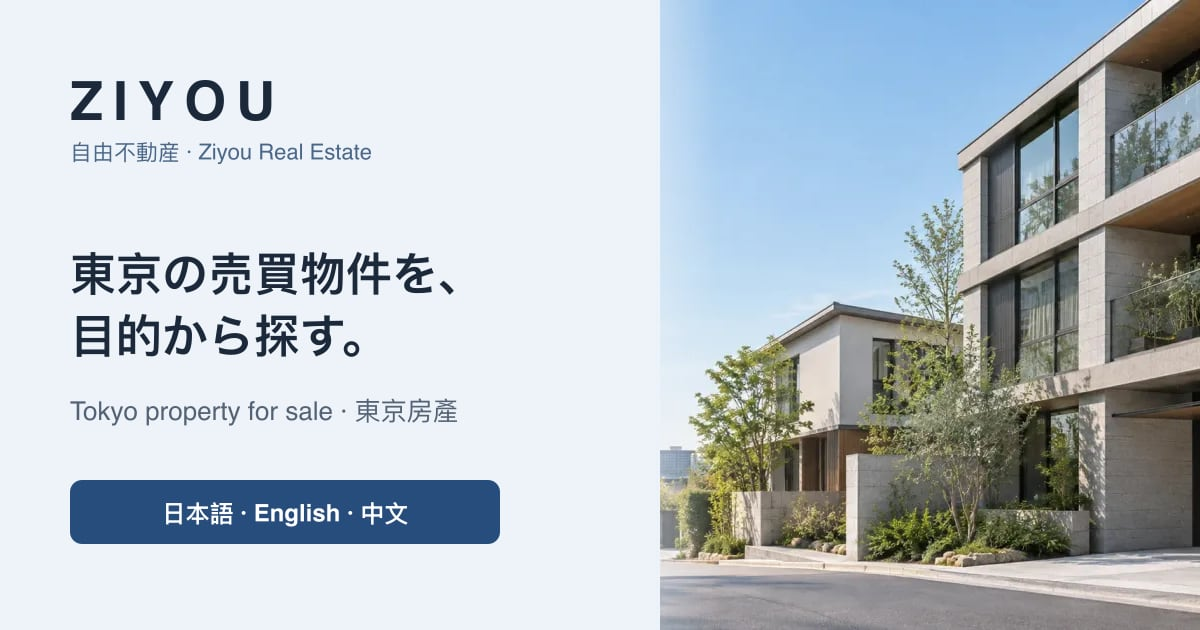
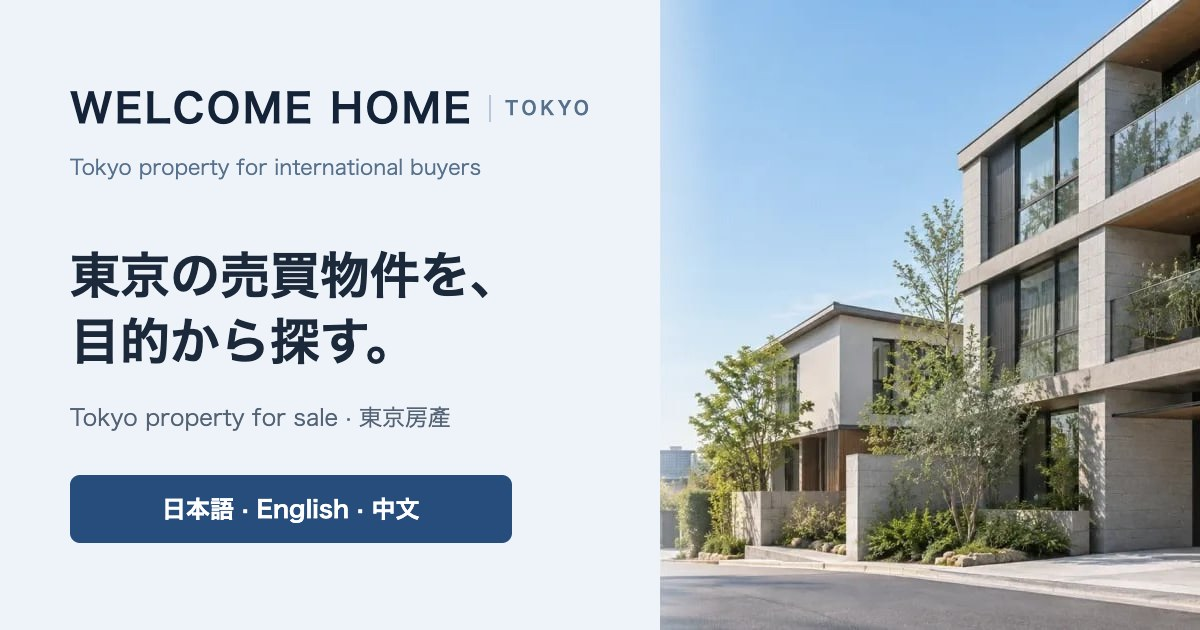
feat: rename the site to Welcome Home Tokyo
The public site name, logo, titles, Open Graph site name, share image,
article authors, llms.txt and notification subjects use Welcome Home
Tokyo. The licensed operator, Ziyou Real Estate LLC (自由不動産合同会社),
stays in the footer with its licence number and in structured data as
the RealEstateAgent and website publisher.

diff --git a/src/lib/login-methods-copy.ts b/src/lib/login-methods-copy.ts
@@ -1,8 +1,8 @@
 const copies = {
-  ja: { with: 'で続ける', or: 'または', emailLink: 'メールのリンクで登録・ログイン', emailNote: 'パスワードを使わず、メールに届くリンクで進めます。同じメールの登録済みアカウントにも利用できます。', send: 'ログインリンクを送信', sent: 'メールをご確認ください。リンクを送信したブラウザで開いてください。迷惑メールも確認してください。', change: '別のメールアドレスを使う', failed: 'ログインできませんでした。もう一度お試しください。', emailFailed: 'メールを送信できませんでした。少し待ってからお試しください。', connecting: '接続しています…', notice: 'ログイン用にメールアドレスと基本プロフィールを利用します。各サービスのパスワードを自由不動産へ入力する必要はありません。', adminTitle: 'ログイン方法', active: '接続設定済み', required: '接続登録が必要', operatorNote: 'お客様のログインテストではなく、運営側で一度行うサービスとの接続登録です。設定が済んだ方法だけをお客様の画面に表示します。', setup: '設定手順を見る', console: '認証設定を開く', callback: 'サービス側に登録するコールバックURL', wechat: 'WeChat（微信）', wechatPending: '専用接続の確認が必要', wechatNote: '微信开放平台のサイトアプリ登録と利用条件を確認します。微信のIDを、メールの一致やニックネームだけで既存アカウントに結び付けません。', selected: "Google・Apple・Facebook・WeChat（微信）を導入対象にしています。", callbackNote: "Google・Apple・Facebookの接続で使用します。WeChatの接続先は専用実装を確認してから登録します。", requirements: {"google": "Google Cloudでログイン用アプリを登録し、接続情報を設定します。", "apple": "Apple Developerの登録、サイト用ID、署名キーが必要です。接続用の秘密キーは6か月以内に更新します。", "facebook": "Metaでログイン用アプリを登録し、一般のお客様が使える公開設定を確認します。"} },
-  en: { with: 'Continue with', or: 'or', emailLink: 'Register or sign in with an email link', emailNote: 'Use a link sent to your email without a password. You can also use an existing account with the same email.', send: 'Send sign-in link', sent: 'Check your email and open the link in the browser that requested it. Please also check spam.', change: 'Use another email address', failed: 'Unable to sign in. Please try again.', emailFailed: 'Unable to send the email. Please wait a moment and try again.', connecting: 'Connecting…', notice: 'We use your email and basic profile for sign-in. You do not need to enter your provider password on Ziyou.', adminTitle: 'Sign-in methods', active: 'Connection configured', required: 'Provider setup required', operatorNote: 'This is one-time setup by the site operator, rather than a customer sign-in test. Only configured methods appear on the customer screen.', setup: 'View setup guide', console: 'Open authentication settings', callback: 'Callback URL to register with the provider', wechat: 'WeChat', wechatPending: 'Dedicated integration needs review', wechatNote: 'Confirm the website-app registration and conditions on WeChat Open Platform. Never link a WeChat ID to an existing account by matching an email or nickname alone.', selected: "Selected providers: Google, Apple, Facebook and WeChat.", callbackNote: "Used for Google, Apple and Facebook. Register the WeChat callback after its dedicated integration is verified.", requirements: {"google": "Register a sign-in app in Google Cloud and configure its connection.", "apple": "Requires Apple Developer registration, a website Services ID and a signing key. Rotate the client secret within six months.", "facebook": "Register a sign-in app with Meta and confirm it is ready for use by customers beyond app testers."} },
-  'zh-TW': { with: '繼續', or: '或', emailLink: '以郵件連結註冊或登入', emailNote: '不需密碼，使用寄到信箱的連結。也可登入相同信箱的現有帳號。', send: '寄送登入連結', sent: '請查看郵件，並在申請連結的瀏覽器中開啟。也請確認垃圾郵件。', change: '使用其他電子郵件', failed: '無法登入，請重試。', emailFailed: '無法寄送郵件，請稍後再試。', connecting: '連線中…', notice: '登入使用您的電子郵件與基本個人資料，不需在自由不動產輸入各服務的密碼。', adminTitle: '登入方式', active: '已設定連線', required: '需要服務端設定', operatorNote: '這是網站營運方一次性的連線設定，不是請客戶測試登入。僅在客戶畫面顯示已設定的方式。', setup: '查看設定步驟', console: '開啟認證設定', callback: '在服務端登記的回呼網址', wechat: 'WeChat（微信）', wechatPending: '需要確認專用連線', wechatNote: '確認微信开放平台的網站應用註冊與使用條件。不會只依電子郵件或暱稱將微信ID連結至現有帳號。', selected: "導入對象為Google、Apple、Facebook與WeChat（微信）。", callbackNote: "供Google、Apple和Facebook連線使用。微信的回呼網址須在確認專用整合後登記。", requirements: {"google": "在Google Cloud註冊登入應用，並設定連線資訊。", "apple": "需要Apple Developer註冊、網站Services ID及簽署金鑰。連線密鑰須於六個月內更新。", "facebook": "在Meta註冊登入應用，並確認一般客戶可使用的公開設定。"} },
-  'zh-CN': { with: '继续', or: '或', emailLink: '通过邮件链接注册或登录', emailNote: '无需密码，使用发送到邮箱的链接。也可登录相同邮箱的现有账号。', send: '发送登录链接', sent: '请查看邮件，并在申请链接的浏览器中打开。也请检查垃圾邮件。', change: '使用其他电子邮箱', failed: '无法登录，请重试。', emailFailed: '无法发送邮件，请稍后重试。', connecting: '连接中…', notice: '登录使用您的电子邮箱与基本个人资料，无需在自由不动产输入各服务的密码。', adminTitle: '登录方式', active: '已配置连接', required: '需要服务端配置', operatorNote: '这是网站运营方一次性的连接设置，不是请客户测试登录。仅在客户界面显示已配置的方式。', setup: '查看配置步骤', console: '打开认证设置', callback: '在服务端登记的回调网址', wechat: 'WeChat（微信）', wechatPending: '需要确认专用连接', wechatNote: '确认微信开放平台的网站应用注册与使用条件。不会只按电子邮箱或昵称将微信ID关联到现有账号。', selected: "接入目标为Google、Apple、Facebook和WeChat（微信）。", callbackNote: "供Google、Apple和Facebook连接使用。微信的回调网址须在确认专用集成后登记。", requirements: {"google": "在Google Cloud注册登录应用，并配置连接信息。", "apple": "需要Apple Developer注册、网站Services ID及签名密钥。连接密钥须在六个月内更新。", "facebook": "在Meta注册登录应用，并确认普通客户可使用的公开配置。"} },
+  ja: { with: 'で続ける', or: 'または', emailLink: 'メールのリンクで登録・ログイン', emailNote: 'パスワードを使わず、メールに届くリンクで進めます。同じメールの登録済みアカウントにも利用できます。', send: 'ログインリンクを送信', sent: 'メールをご確認ください。リンクを送信したブラウザで開いてください。迷惑メールも確認してください。', change: '別のメールアドレスを使う', failed: 'ログインできませんでした。もう一度お試しください。', emailFailed: 'メールを送信できませんでした。少し待ってからお試しください。', connecting: '接続しています…', notice: 'ログイン用にメールアドレスと基本プロフィールを利用します。各サービスのパスワードをWelcome Home Tokyoへ入力する必要はありません。', adminTitle: 'ログイン方法', active: '接続設定済み', required: '接続登録が必要', operatorNote: 'お客様のログインテストではなく、運営側で一度行うサービスとの接続登録です。設定が済んだ方法だけをお客様の画面に表示します。', setup: '設定手順を見る', console: '認証設定を開く', callback: 'サービス側に登録するコールバックURL', wechat: 'WeChat（微信）', wechatPending: '専用接続の確認が必要', wechatNote: '微信开放平台のサイトアプリ登録と利用条件を確認します。微信のIDを、メールの一致やニックネームだけで既存アカウントに結び付けません。', selected: "Google・Apple・Facebook・WeChat（微信）を導入対象にしています。", callbackNote: "Google・Apple・Facebookの接続で使用します。WeChatの接続先は専用実装を確認してから登録します。", requirements: {"google": "Google Cloudでログイン用アプリを登録し、接続情報を設定します。", "apple": "Apple Developerの登録、サイト用ID、署名キーが必要です。接続用の秘密キーは6か月以内に更新します。", "facebook": "Metaでログイン用アプリを登録し、一般のお客様が使える公開設定を確認します。"} },
+  en: { with: 'Continue with', or: 'or', emailLink: 'Register or sign in with an email link', emailNote: 'Use a link sent to your email without a password. You can also use an existing account with the same email.', send: 'Send sign-in link', sent: 'Check your email and open the link in the browser that requested it. Please also check spam.', change: 'Use another email address', failed: 'Unable to sign in. Please try again.', emailFailed: 'Unable to send the email. Please wait a moment and try again.', connecting: 'Connecting…', notice: 'We use your email and basic profile for sign-in. You do not need to enter your provider password on Welcome Home Tokyo.', adminTitle: 'Sign-in methods', active: 'Connection configured', required: 'Provider setup required', operatorNote: 'This is one-time setup by the site operator, rather than a customer sign-in test. Only configured methods appear on the customer screen.', setup: 'View setup guide', console: 'Open authentication settings', callback: 'Callback URL to register with the provider', wechat: 'WeChat', wechatPending: 'Dedicated integration needs review', wechatNote: 'Confirm the website-app registration and conditions on WeChat Open Platform. Never link a WeChat ID to an existing account by matching an email or nickname alone.', selected: "Selected providers: Google, Apple, Facebook and WeChat.", callbackNote: "Used for Google, Apple and Facebook. Register the WeChat callback after its dedicated integration is verified.", requirements: {"google": "Register a sign-in app in Google Cloud and configure its connection.", "apple": "Requires Apple Developer registration, a website Services ID and a signing key. Rotate the client secret within six months.", "facebook": "Register a sign-in app with Meta and confirm it is ready for use by customers beyond app testers."} },
+  'zh-TW': { with: '繼續', or: '或', emailLink: '以郵件連結註冊或登入', emailNote: '不需密碼，使用寄到信箱的連結。也可登入相同信箱的現有帳號。', send: '寄送登入連結', sent: '請查看郵件，並在申請連結的瀏覽器中開啟。也請確認垃圾郵件。', change: '使用其他電子郵件', failed: '無法登入，請重試。', emailFailed: '無法寄送郵件，請稍後再試。', connecting: '連線中…', notice: '登入使用您的電子郵件與基本個人資料，不需在Welcome Home Tokyo輸入各服務的密碼。', adminTitle: '登入方式', active: '已設定連線', required: '需要服務端設定', operatorNote: '這是網站營運方一次性的連線設定，不是請客戶測試登入。僅在客戶畫面顯示已設定的方式。', setup: '查看設定步驟', console: '開啟認證設定', callback: '在服務端登記的回呼網址', wechat: 'WeChat（微信）', wechatPending: '需要確認專用連線', wechatNote: '確認微信开放平台的網站應用註冊與使用條件。不會只依電子郵件或暱稱將微信ID連結至現有帳號。', selected: "導入對象為Google、Apple、Facebook與WeChat（微信）。", callbackNote: "供Google、Apple和Facebook連線使用。微信的回呼網址須在確認專用整合後登記。", requirements: {"google": "在Google Cloud註冊登入應用，並設定連線資訊。", "apple": "需要Apple Developer註冊、網站Services ID及簽署金鑰。連線密鑰須於六個月內更新。", "facebook": "在Meta註冊登入應用，並確認一般客戶可使用的公開設定。"} },
+  'zh-CN': { with: '继续', or: '或', emailLink: '通过邮件链接注册或登录', emailNote: '无需密码，使用发送到邮箱的链接。也可登录相同邮箱的现有账号。', send: '发送登录链接', sent: '请查看邮件，并在申请链接的浏览器中打开。也请检查垃圾邮件。', change: '使用其他电子邮箱', failed: '无法登录，请重试。', emailFailed: '无法发送邮件，请稍后重试。', connecting: '连接中…', notice: '登录使用您的电子邮箱与基本个人资料，无需在Welcome Home Tokyo输入各服务的密码。', adminTitle: '登录方式', active: '已配置连接', required: '需要服务端配置', operatorNote: '这是网站运营方一次性的连接设置，不是请客户测试登录。仅在客户界面显示已配置的方式。', setup: '查看配置步骤', console: '打开认证设置', callback: '在服务端登记的回调网址', wechat: 'WeChat（微信）', wechatPending: '需要确认专用连接', wechatNote: '确认微信开放平台的网站应用注册与使用条件。不会只按电子邮箱或昵称将微信ID关联到现有账号。', selected: "接入目标为Google、Apple、Facebook和WeChat（微信）。", callbackNote: "供Google、Apple和Facebook连接使用。微信的回调网址须在确认专用集成后登记。", requirements: {"google": "在Google Cloud注册登录应用，并配置连接信息。", "apple": "需要Apple Developer注册、网站Services ID及签名密钥。连接密钥须在六个月内更新。", "facebook": "在Meta注册登录应用，并确认普通客户可使用的公开配置。"} },
 } as const
 
 export function getLoginMethodsCopy(locale: string) { return copies[locale as keyof typeof copies] || copies.en }

diff --git a/src/app/(public)/articles/page.tsx b/src/app/(public)/articles/page.tsx
@@ -10,10 +10,10 @@ import { localeAlternates } from '@/lib/locale-url'
 
 export const dynamic = 'force-dynamic'
 const indexCopy = {
-  ja: { title: '東京の不動産購入に役立つ記事 | 自由不動産', description: '日本の不動産市場、購入の流れ、仲介の慣習を解説。公開中の東京の物件を比較した多言語の記事です。' },
-  en: { title: 'Japan Real Estate Guides | Ziyou', description: 'Understand Japan property markets, buying procedures and brokerage customs. Compare current Tokyo listings with source-backed multilingual guides.' },
-  'zh-TW': { title: '東京購屋實用文章 | 自由不動產', description: '解說日本不動產市場、購屋流程與仲介慣例，並比較目前刊登中的東京物件。' },
-  'zh-CN': { title: '东京购房实用文章 | 自由不动产', description: '解说日本房产市场、购房流程与中介惯例，并比较当前在售的东京房源。' },
+  ja: { title: '東京の不動産購入に役立つ記事｜Welcome Home Tokyo', description: '日本の不動産市場、購入の流れ、仲介の慣習を解説。公開中の東京の物件を比較した多言語の記事です。' },
+  en: { title: 'Japan Real Estate Guides | Welcome Home Tokyo', description: 'Understand Japan property markets, buying procedures and brokerage customs. Compare current Tokyo listings with source-backed multilingual guides.' },
+  'zh-TW': { title: '東京購屋實用文章｜Welcome Home Tokyo', description: '解說日本不動產市場、購屋流程與仲介慣例，並比較目前刊登中的東京物件。' },
+  'zh-CN': { title: '东京购房实用文章｜Welcome Home Tokyo', description: '解说日本房产市场、购房流程与中介惯例，并比较当前在售的东京房源。' },
 } as const
 
 export async function generateMetadata(): Promise<Metadata> {
@@ -26,5 +26,5 @@ export async function generateMetadata(): Promise<Metadata> {
 export default async function ArticlesPage() {
   const [articles, locale] = await Promise.all([getPublicArticles(), getLocale()])
   const heading = { ja: '日本の不動産を知る・選ぶ', en: 'Understanding and buying property in Japan', 'zh-TW': '了解日本不動產與購屋', 'zh-CN': '了解日本房产与购房' }[locale as Locale]
-  return <div className="container py-12"><p className="mb-3 text-sm uppercase tracking-widest text-muted-foreground">Ziyou / Tokyo</p><h1 className="text-4xl font-semibold">{heading}</h1><div className="mt-10 grid gap-6 md:grid-cols-2 lg:grid-cols-3">{articles.map((article) => <article key={article.slug} className="rounded-xl border p-6"><Link href={`/articles/${article.slug}/${locale}`} tabIndex={-1} aria-hidden="true">{article.locales[locale as Locale].hero ? <Image src={article.locales[locale as Locale].hero!.url} alt="" width={768} height={512} className="mb-5 aspect-[3/2] w-full rounded-lg object-cover" /> : <div className="mb-5 flex aspect-[3/2] w-full items-center justify-center rounded-lg bg-[linear-gradient(135deg,#e8f1fb_0%,#dbe8f4_55%,#c9daea_100%)]"><BookOpen className="h-10 w-10 text-[#4a6789]" /></div>}</Link><time className="text-xs text-muted-foreground" dateTime={article.updatedAt.toISOString()}>{article.updatedAt.toLocaleDateString(locale, { timeZone: 'Asia/Tokyo' })}</time><h2 className="mt-4 text-xl font-semibold"><Link href={`/articles/${article.slug}/${locale}`} className="hover:underline">{article.locales[locale as Locale].title}</Link></h2><p className="mt-3 text-sm leading-7 text-muted-foreground">{article.locales[locale as Locale].description}</p></article>)}</div>{!articles.length && <p className="mt-8 text-muted-foreground">{locale === 'ja' ? '公開物件の比較は物件一覧からご覧ください。' : 'Browse the current property selection to compare available listings.'} <Link href="/listings" className="underline">{locale === 'ja' ? '物件一覧' : 'View properties'}</Link></p>}</div>
+  return <div className="container py-12"><p className="mb-3 text-sm uppercase tracking-widest text-muted-foreground">Welcome Home Tokyo</p><h1 className="text-4xl font-semibold">{heading}</h1><div className="mt-10 grid gap-6 md:grid-cols-2 lg:grid-cols-3">{articles.map((article) => <article key={article.slug} className="rounded-xl border p-6"><Link href={`/articles/${article.slug}/${locale}`} tabIndex={-1} aria-hidden="true">{article.locales[locale as Locale].hero ? <Image src={article.locales[locale as Locale].hero!.url} alt="" width={768} height={512} className="mb-5 aspect-[3/2] w-full rounded-lg object-cover" /> : <div className="mb-5 flex aspect-[3/2] w-full items-center justify-center rounded-lg bg-[linear-gradient(135deg,#e8f1fb_0%,#dbe8f4_55%,#c9daea_100%)]"><BookOpen className="h-10 w-10 text-[#4a6789]" /></div>}</Link><time className="text-xs text-muted-foreground" dateTime={article.updatedAt.toISOString()}>{article.updatedAt.toLocaleDateString(locale, { timeZone: 'Asia/Tokyo' })}</time><h2 className="mt-4 text-xl font-semibold"><Link href={`/articles/${article.slug}/${locale}`} className="hover:underline">{article.locales[locale as Locale].title}</Link></h2><p className="mt-3 text-sm leading-7 text-muted-foreground">{article.locales[locale as Locale].description}</p></article>)}</div>{!articles.length && <p className="mt-8 text-muted-foreground">{locale === 'ja' ? '公開物件の比較は物件一覧からご覧ください。' : 'Browse the current property selection to compare available listings.'} <Link href="/listings" className="underline">{locale === 'ja' ? '物件一覧' : 'View properties'}</Link></p>}</div>
 }

diff --git a/src/app/(public)/articles/[slug]/[lang]/page.tsx b/src/app/(public)/articles/[slug]/[lang]/page.tsx
@@ -41,10 +41,10 @@ export default async function ArticlePage({ params }: Props) {
   const content = article.locales[lang]
   const covers = await coverImages(article.sources.map((source) => source.id))
   const labels = {
-    ja: { back: '物件選びの記事', sources: '参照物件', all: article.city ? 'この区の物件を探す' : '東京の物件を探す', references: '出典・参考資料', updated: '更新', author: '自由不動産' },
-    en: { back: 'Property insights', sources: 'Source listings', all: article.city ? 'Browse properties in this ward' : 'Browse Tokyo properties', references: 'Sources and further reading', updated: 'Updated', author: 'Ziyou Real Estate' },
-    'zh-TW': { back: '購屋資訊', sources: '參照物件', all: article.city ? '查看本區物件' : '查看東京物件', references: '出處與參考資料', updated: '更新', author: '自由不動產' },
-    'zh-CN': { back: '购房资讯', sources: '参考房产', all: article.city ? '查看本区房产' : '查看东京房产', references: '出处与参考资料', updated: '更新', author: '自由不动产' },
+    ja: { back: '物件選びの記事', sources: '参照物件', all: article.city ? 'この区の物件を探す' : '東京の物件を探す', references: '出典・参考資料', updated: '更新', author: 'Welcome Home Tokyo' },
+    en: { back: 'Property insights', sources: 'Source listings', all: article.city ? 'Browse properties in this ward' : 'Browse Tokyo properties', references: 'Sources and further reading', updated: 'Updated', author: 'Welcome Home Tokyo' },
+    'zh-TW': { back: '購屋資訊', sources: '參照物件', all: article.city ? '查看本區物件' : '查看東京物件', references: '出處與參考資料', updated: '更新', author: 'Welcome Home Tokyo' },
+    'zh-CN': { back: '购房资讯', sources: '参考房产', all: article.city ? '查看本区房产' : '查看东京房产', references: '出处与参考资料', updated: '更新', author: 'Welcome Home Tokyo' },
   }[lang]
   const structured = { '@context': 'https://schema.org', '@type': 'Article', headline: content.title, description: content.description, inLanguage: getSchemaLanguage(lang), datePublished: article.publishedAt?.toISOString(), dateModified: article.updatedAt.toISOString(), author: { '@type': 'Organization', name: labels.author, url: absoluteUrl('/') }, mainEntityOfPage: articleUrl(slug, lang), image: content.hero ? absoluteUrl(content.hero.url) : undefined, citation: [...article.sources.map((source) => absoluteUrl(`/listings/${source.id}`)), ...(content.references?.map(ref => ref.url) || [])] }
   return <article data-article-slug={slug} data-source-hash={article.sourceHash} lang={getSchemaLanguage(lang)} className="container max-w-4xl py-12"><JsonLd data={structured} /><Link href="/articles" className="text-sm text-muted-foreground hover:underline">← {labels.back}</Link><h1 className="mt-6 text-3xl font-semibold leading-tight md:text-4xl">{content.title}</h1><p className="mt-4 text-sm text-muted-foreground">{labels.author} · {labels.updated} <time dateTime={article.updatedAt.toISOString()}>{article.updatedAt.toLocaleDateString(lang, { timeZone: 'Asia/Tokyo' })}</time></p><nav aria-label="Languages" className="my-6 flex flex-wrap gap-4 text-sm">{locales.map((locale) => <Link key={locale} href={`/articles/${slug}/${locale}`} hrefLang={getSchemaLanguage(locale)} className={locale === lang ? 'font-semibold' : 'underline'}>{localeNames[locale]}</Link>)}</nav><p className="text-lg leading-8 text-muted-foreground">{content.description}</p>{content.hero && <figure className="mt-8 overflow-hidden rounded-2xl"><Image src={content.hero.url} alt={content.hero.alt} width={1536} height={1024} priority className="h-auto w-full" /><figcaption className="mt-3 text-sm text-muted-foreground">{content.hero.caption}</figcaption></figure>}<nav aria-label={content.title} className="mt-8 rounded-xl bg-muted/30 p-5"><ol className="space-y-2 text-sm">{content.sections.map((section, index) => <li key={index}><a href={`#section-${index}`} className="hover:underline">{section.heading}</a></li>)}</ol></nav>{content.sections.map((section, sectionIndex) => <section id={`section-${sectionIndex}`} key={section.heading} className="mt-10 scroll-mt-44"><h2 className="mb-4 text-2xl font-semibold">{section.heading}</h2><div className="space-y-4">{section.paragraphs.map((paragraph, index) => <p key={index} className="leading-8 text-muted-foreground">{paragraph}</p>)}</div></section>)}{article.sources.length > 0 && <><ArticleSourceGallery locale={lang} sources={article.sources.map((source) => ({ ...source, imageUrl: covers.get(source.id) ?? null }))} />{article.city && <Link href={`/listings?ward=${encodeURIComponent(article.city)}`} className="mt-5 inline-block text-sm font-semibold text-[#274d7d] underline">{labels.all}</Link>}</>}{content.references && <section className="mt-10 border-t pt-6"><h2 className="text-lg font-semibold">{labels.references}</h2><ul className="mt-3 space-y-2 text-sm">{content.references.map(ref => <li key={ref.url}><a href={ref.url} target="_blank" rel="noopener noreferrer" className="underline">{ref.title}</a></li>)}</ul></section>}<p className="my-7 text-sm leading-7 text-muted-foreground">{content.notice}</p><Link href="/match" className="inline-block rounded-md bg-primary px-6 py-3 text-primary-foreground">{content.cta}</Link></article>

diff --git a/src/app/(public)/areas/[ward]/page.tsx b/src/app/(public)/areas/[ward]/page.tsx
@@ -27,7 +27,7 @@ export const dynamic = 'force-dynamic'
 type Props = { params: Promise<{ ward: string }> }
 
 const copy = {
-  ja: { unitTitle: '物件ごとの㎡単価', unitNote: '公開中の物件の売出価格を面積で割った参考値です。成約価格や相場ではありません。', title: (ward: string) => `${ward}の中古マンション・戸建て・土地の売買物件`, intro: (ward: string, count: number) => `${ward}で公開中の売買物件は${count}件です。価格・広さ・駅距離を比べて、気になる物件は登録なしで相談できます。`, empty: (ward: string) => `${ward}で現在公開中の物件はありません。ご希望の条件をお知らせいただければ、紹介できる物件を確認します。`, range: '掲載価格の範囲', types: '物件の種類', listings: '公開中の物件', article: 'この区の物件比較記事を読む', all: '条件を指定して探す', match: '購入条件を整理する', home: 'ホーム', areas: 'エリア', description: (ward: string, count: number) => `${ward}の売買物件${count}件。中古マンション・戸建て・土地の価格、広さ、駅距離を比較。日本語・英語・中国語で購入相談に対応する自由不動産のポータル。` },
+  ja: { unitTitle: '物件ごとの㎡単価', unitNote: '公開中の物件の売出価格を面積で割った参考値です。成約価格や相場ではありません。', title: (ward: string) => `${ward}の中古マンション・戸建て・土地の売買物件`, intro: (ward: string, count: number) => `${ward}で公開中の売買物件は${count}件です。価格・広さ・駅距離を比べて、気になる物件は登録なしで相談できます。`, empty: (ward: string) => `${ward}で現在公開中の物件はありません。ご希望の条件をお知らせいただければ、紹介できる物件を確認します。`, range: '掲載価格の範囲', types: '物件の種類', listings: '公開中の物件', article: 'この区の物件比較記事を読む', all: '条件を指定して探す', match: '購入条件を整理する', home: 'ホーム', areas: 'エリア', description: (ward: string, count: number) => `${ward}の売買物件${count}件。中古マンション・戸建て・土地の価格、広さ、駅距離を比較。日本語・英語・中国語で購入相談に対応するWelcome Home Tokyo。` },
   en: { unitTitle: 'Price per m² by listing', unitNote: 'Asking price divided by area for each listing; not transaction prices or a market valuation.', title: (ward: string) => `Property for sale in ${ward}, Tokyo`, intro: (ward: string, count: number) => `${count} properties are for sale in ${ward} now. Compare prices, sizes and station access, and ask about any of them without signing up.`, empty: (ward: string) => `No properties are listed in ${ward} right now. Tell us what you are looking for and we will check what we can introduce.`, range: 'Asking-price range', types: 'Property types', listings: 'Properties for sale', article: 'Read the property comparison for this ward', all: 'Search with filters', match: 'Set your purchase criteria', home: 'Home', areas: 'Areas', description: (ward: string, count: number) => `${count} properties for sale in ${ward}, Tokyo. Compare condominium, house and land prices, sizes and station access, with support in English, Japanese and Chinese.` },
   'zh-TW': { unitTitle: '各物件每平方公尺單價', unitNote: '以刊登物件的開價除以面積計算的參考值，並非成交價或市場行情。', title: (ward: string) => `${ward}公寓・獨棟・土地待售物件`, intro: (ward: string, count: number) => `${ward}目前刊登中的待售物件共${count}筆。可比較價格、面積與車站距離，有興趣的物件免註冊即可諮詢。`, empty: (ward: string) => `${ward}目前沒有刊登中的物件。請告訴我們您的條件，我們會確認可介紹的物件。`, range: '刊登價格範圍', types: '物件類型', listings: '刊登中的物件', article: '閱讀本區物件比較文章', all: '指定條件搜尋', match: '整理購屋條件', home: '首頁', areas: '區域', description: (ward: string, count: number) => `東京${ward}待售物件${count}筆。比較公寓、獨棟與土地的價格、面積與車站距離，提供中文、日文、英文購屋諮詢。` },
   'zh-CN': { unitTitle: '各房源每平方米单价', unitNote: '以在售房源的挂牌价除以面积计算的参考值，并非成交价或市场行情。', title: (ward: string) => `${ward}公寓・独栋・土地在售房源`, intro: (ward: string, count: number) => `${ward}当前在售房源共${count}套。可比较价格、面积与车站距离，感兴趣的房源免注册即可咨询。`, empty: (ward: string) => `${ward}目前没有在售房源。请告诉我们您的条件，我们会确认可介绍的房源。`, range: '挂牌价格范围', types: '房源类型', listings: '在售房源', article: '阅读本区房源比较文章', all: '指定条件搜索', match: '整理购房条件', home: '首页', areas: '区域', description: (ward: string, count: number) => `东京${ward}在售房源${count}套。比较公寓、独栋与土地的价格、面积与车站距离，提供中文、日文、英文购房咨询。` },

diff --git a/src/lib/site-config.ts b/src/lib/site-config.ts
@@ -41,6 +41,11 @@ type SeoListingLike = {
 }
 
 const DEFAULT_SITE_URL = 'https://portal.ziyou-fudosan.com'
+
+/** Public site name. The licensed operator stays visible in the footer and structured data. */
+export const SITE_NAME = 'Welcome Home Tokyo'
+export const OPERATOR_NAME = 'Ziyou Real Estate LLC'
+export const OPERATOR_NAME_JA = '自由不動産合同会社'
 const VERCEL_PREVIEW_HOST_SUFFIX = '.vercel.app'
 
 const siteCopy: Record<
@@ -53,34 +58,34 @@ const siteCopy: Record<
   }
 > = {
   ja: {
-    title: '東京の投資用・居住用・土地を探す｜自由不動産',
+    title: '東京の投資用・居住用・土地を探す｜Welcome Home Tokyo',
     description:
-      '東京の投資用物件、居住用住宅、土地を探す方へ。自由不動産が日本語・英語・中国語で物件探しから売買までお手伝いします。',
+      '東京の投資用物件、居住用住宅、土地を探す方へ。Welcome Home Tokyoが日本語・英語・中国語で物件探しから売買までお手伝いします。',
     listingsTitle: '東京の投資用・居住用・土地を探す',
     listingsDescription:
       '東京の収益物件、マンション、戸建て、土地を検索。掲載物件がない場合も希望条件からご相談いただけます。',
   },
   en: {
-    title: 'Tokyo Property for Sale | Ziyou Real Estate',
+    title: 'Tokyo Property for Sale | Welcome Home Tokyo',
     description:
-      'Find investment property, residential homes, and land in Tokyo with Ziyou Real Estate. Discuss your purchase in Japanese, English, or Chinese.',
-    listingsTitle: 'Tokyo Property for Sale | Ziyou Real Estate',
+      'Find investment property, residential homes, and land in Tokyo with Welcome Home Tokyo. Discuss your purchase in Japanese, English, or Chinese.',
+    listingsTitle: 'Tokyo Property for Sale | Welcome Home Tokyo',
     listingsDescription:
       'Browse Tokyo income properties, condominiums, houses, and land. Tell us your criteria if a suitable property is not yet published.',
   },
   'zh-TW': {
-    title: '東京投資用、居住用及土地物件｜自由不動產',
+    title: '東京投資用、居住用及土地物件｜Welcome Home Tokyo',
     description:
-      '自由不動產協助您在東京尋找投資物件、居住用住宅及土地。提供日語、英語與中文溝通。',
-    listingsTitle: '東京待售物件｜自由不動產',
+      'Welcome Home Tokyo協助您在東京尋找投資物件、居住用住宅及土地。提供日語、英語與中文溝通。',
+    listingsTitle: '東京待售物件｜Welcome Home Tokyo',
     listingsDescription:
       '搜尋東京收益物件、公寓、獨棟住宅與土地。若沒有合適的公開物件，也可以傳送購買條件。',
   },
   'zh-CN': {
-    title: '东京投资、居住及土地房产｜自由不动产',
+    title: '东京投资、居住及土地房产｜Welcome Home Tokyo',
     description:
-      '自由不动产协助您在东京寻找投资房产、居住用住宅及土地。提供日语、英语和中文沟通。',
-    listingsTitle: '东京待售房产｜自由不动产',
+      'Welcome Home Tokyo协助您在东京寻找投资房产、居住用住宅及土地。提供日语、英语和中文沟通。',
+    listingsTitle: '东京待售房产｜Welcome Home Tokyo',
     listingsDescription:
       '搜索东京收益房产、公寓、独栋住宅和土地。如果没有合适的公开房源，也可以发送购买条件。',
   },
@@ -276,7 +281,8 @@ export function buildOrganizationJsonLd(locale: string) {
   return {
     '@context': 'https://schema.org',
     '@type': 'RealEstateAgent',
-    name: 'Ziyou Real Estate',
+    name: OPERATOR_NAME,
+    alternateName: [OPERATOR_NAME_JA, SITE_NAME],
     url: getSiteUrl(),
     email: 'admin@ziyou-fudosan.com',
     telephone: '+81-80-8492-7068',
@@ -298,7 +304,8 @@ export function buildWebsiteJsonLd(locale: string) {
   return {
     '@context': 'https://schema.org',
     '@type': 'WebSite',
-    name: 'Ziyou Real Estate',
+    name: SITE_NAME,
+    publisher: { '@type': 'RealEstateAgent', name: OPERATOR_NAME, alternateName: OPERATOR_NAME_JA },
     url: getSiteUrl(),
     inLanguage: getSchemaLanguage(locale),
     potentialAction: {
@@ -318,7 +325,7 @@ export function defaultShareImages(alt: string) {
 export function shareMetadata({ title, description, url, locale, image }: { title: string; description: string; url: string; locale: string; image?: string | null }) {
   const images = image ? [{ url: image, alt: title }] : defaultShareImages(title)
   return {
-    openGraph: { type: 'website' as const, siteName: 'Ziyou Real Estate', title, description, url, locale: getOpenGraphLocale(locale), images },
+    openGraph: { type: 'website' as const, siteName: SITE_NAME, title, description, url, locale: getOpenGraphLocale(locale), images },
     twitter: { card: 'summary_large_image' as const, title, description, images: images.map((item) => item.url) },
   }
 }

diff --git a/src/lib/home-snippet.ts b/src/lib/home-snippet.ts
@@ -12,32 +12,32 @@ export function homeSnippet(locale: string, count: number): HomeSnippet {
   switch (locale) {
     case 'ja':
       return {
-        title: live ? `東京23区の売買物件${count}件｜中古マンション・一棟・土地｜自由不動産` : '東京23区の売買物件｜中古マンション・一棟・土地｜自由不動産',
+        title: live ? `東京23区の売買物件${count}件｜中古マンション・一棟・土地｜Welcome Home Tokyo` : '東京23区の売買物件｜中古マンション・一棟・土地｜Welcome Home Tokyo',
         description: `${live ? `東京23区で公開中の売買物件${count}件。` : ''}中古マンション・一棟ビル・アパート・土地を区・予算・種類から探せます。㎡単価や月々の返済、購入時の諸費用の目安も表示。登録なしでWhatsApp・メール・電話で相談できます（日本語・英語・中国語）。`,
       }
     case 'zh-TW':
       return {
-        title: live ? `東京23區待售物件${count}筆｜公寓・整棟・土地｜自由不動產` : '東京23區待售物件｜公寓・整棟・土地｜自由不動產',
+        title: live ? `東京23區待售物件${count}筆｜公寓・整棟・土地｜Welcome Home Tokyo` : '東京23區待售物件｜公寓・整棟・土地｜Welcome Home Tokyo',
         description: `${live ? `東京23區目前公開${count}筆待售物件。` : ''}可依區域、預算、類型搜尋公寓、整棟大樓、公寓樓與土地，並顯示每平方公尺單價、每月還款與購屋雜費試算。免註冊即可透過WhatsApp、電子郵件或電話以中文、日文、英文洽詢。`,
       }
     case 'zh-CN':
       return {
-        title: live ? `东京23区在售房源${count}套｜公寓・整栋・土地｜自由不动产` : '东京23区在售房源｜公寓・整栋・土地｜自由不动产',
+        title: live ? `东京23区在售房源${count}套｜公寓・整栋・土地｜Welcome Home Tokyo` : '东京23区在售房源｜公寓・整栋・土地｜Welcome Home Tokyo',
         description: `${live ? `东京23区目前公开${count}套在售房源。` : ''}可按区域、预算、类型查找公寓、整栋大楼、公寓楼和土地，并显示每平方米单价、月供和购房杂费估算。无需注册即可通过WhatsApp、邮件或电话用中文、日语、英语咨询。`,
       }
     default:
       return {
-        title: live ? `${count} Tokyo Properties for Sale | Condos, Buildings, Land | Ziyou Real Estate` : 'Tokyo Properties for Sale | Condos, Buildings, Land | Ziyou Real Estate',
+        title: live ? `${count} Tokyo Properties for Sale | Condos, Buildings, Land | Welcome Home Tokyo` : 'Tokyo Properties for Sale | Condos, Buildings, Land | Welcome Home Tokyo',
         description: `${live ? `${count} properties for sale across Tokyo's 23 wards. ` : ''}Browse condos, whole buildings, apartment buildings and land by ward, budget and type, with price per m², monthly payment and purchase-cost estimates. Ask in English, Japanese or Chinese by WhatsApp, email or phone — no sign-up needed.`,
       }
   }
 }
 
-const BRAND: Record<string, string> = { ja: '｜自由不動産', 'zh-TW': '｜自由不動產', 'zh-CN': '｜自由不动产' }
+const BRAND: Record<string, string> = { ja: '｜Welcome Home Tokyo', 'zh-TW': '｜Welcome Home Tokyo', 'zh-CN': '｜Welcome Home Tokyo' }
 
-/** Title template: Japanese and Chinese searchers see the local company name. */
+/** Title template: full-width separator for Japanese and Chinese titles. */
 export function titleTemplate(locale: string): string {
-  return `%s${BRAND[locale] ?? ' | Ziyou Real Estate'}`
+  return `%s${BRAND[locale] ?? ' | Welcome Home Tokyo'}`
 }
 
 /** Appends the live count to a collection title, e.g. 「港区の売買物件（4件）」. Zero leaves the title as is. */

diff --git a/src/components/common/header.tsx b/src/components/common/header.tsx
@@ -34,9 +34,9 @@ export function Header({ user }: HeaderProps) {
 
   return <header data-testid="public-header" className="relative z-50 w-full border-b md:sticky md:top-0 border-[#dbe2e9] bg-white">
     <div className="container grid grid-cols-[auto_1fr] items-center gap-x-3 gap-y-2 py-3 md:grid-cols-[auto_minmax(0,1fr)_auto] md:gap-x-5 md:py-4">
-      <Link href="/" className="flex items-center gap-2 text-[#142337]">
-        <span className="text-[1.4rem] font-semibold tracking-[0.12em]">ZIYOU</span>
-        <span className="hidden border-l border-[#cbd5df] pl-2 text-[10px] font-medium leading-4 text-[#64778b] xl:block">{t('common.appName')}<br />REAL ESTATE</span>
+      <Link href="/" className="flex flex-col items-start gap-1 text-[#142337] sm:flex-row sm:items-center sm:gap-2">
+        <span className="whitespace-nowrap text-[15px] font-semibold leading-none tracking-[0.08em] sm:text-lg md:text-[1.3rem]">WELCOME HOME</span>
+        <span className="text-[9px] font-semibold leading-none tracking-[0.3em] text-[#64778b] sm:border-l sm:border-[#cbd5df] sm:pl-2 sm:text-[10px] sm:leading-4 sm:tracking-[0.16em]">TOKYO</span>
       </Link>
       <form role="search" aria-label={copy.search} data-testid="header-property-search" action="/listings" method="get" className="col-span-2 row-start-2 flex h-11 min-w-0 items-center rounded-lg border border-[#dbe2e9] bg-[#f5f7f9] focus-within:border-[#274d7d] focus-within:ring-2 focus-within:ring-[#274d7d]/15 md:col-span-1 md:col-start-2 md:row-start-1">
         <input type="search" name="q" maxLength={80} aria-label={copy.keyword} placeholder={copy.keyword} className="h-full w-full min-w-0 rounded-l-lg bg-transparent pl-4 text-sm text-[#1b293a] outline-none placeholder:text-[#728092]" />
@@ -56,7 +56,7 @@ export function Header({ user }: HeaderProps) {
         <Sheet open={isOpen} onOpenChange={setIsOpen}>
           <SheetTrigger asChild><Button variant="ghost" size="icon" className="lg:hidden" aria-label={copy.menu}><Menu aria-hidden="true" className="h-5 w-5" /></Button></SheetTrigger>
           <SheetContent side="right" className="w-[280px] overflow-y-auto">
-            <SheetHeader><SheetTitle>ZIYOU <span className="text-xs font-normal text-[#647487]">{t('common.appName')}</span></SheetTitle><SheetDescription className="sr-only">{copy.navigation}</SheetDescription></SheetHeader>
+            <SheetHeader><SheetTitle>{t('common.appName')}</SheetTitle><SheetDescription className="sr-only">{copy.navigation}</SheetDescription></SheetHeader>
             <nav aria-label={copy.navigation} className="mt-3 flex flex-col gap-4 px-4 pb-6">
               {links.map(({ href, label, active }) => <Link key={href} href={href} onClick={() => setIsOpen(false)} aria-current={active ? 'page' : undefined} className="flex min-h-10 items-center gap-2 text-base font-medium hover:text-primary">{href === '/favorites' && <Heart aria-hidden="true" className="h-4 w-4" />}{label}</Link>)}
               {user ? <>

diff --git a/src/lib/portal-copy.ts b/src/lib/portal-copy.ts
@@ -9,7 +9,7 @@ const portalCopy = {
   ja: {
     eyebrow: '東京の不動産を、目的から探す',
     heroTitle: '東京の物件を、目的から探す。',
-    heroDescription: '投資用、居住用、土地。自由不動産は、目的に合う東京の物件探しと購入を、日本語・英語・中国語でお手伝いします。',
+    heroDescription: '投資用、居住用、土地。Welcome Home Tokyoは、目的に合う東京の物件探しと購入を、日本語・英語・中国語でお手伝いします。',
     browse: '物件を探す',
     consult: '購入条件を相談する',
     searchTitle: '東京の売買物件を探す',
@@ -46,7 +46,7 @@ const portalCopy = {
   en: {
     eyebrow: 'Find Tokyo property by purpose',
     heroTitle: 'Find the right property in Tokyo.',
-    heroDescription: 'Investment property, a place to live, or land. Ziyou Real Estate helps you search and buy in Tokyo in Japanese, English, or Chinese.',
+    heroDescription: 'Investment property, a place to live, or land. Welcome Home Tokyo helps you search and buy in Tokyo in Japanese, English, or Chinese.',
     browse: 'Browse properties',
     consult: 'Discuss my criteria',
     searchTitle: 'Search Tokyo properties',
@@ -83,7 +83,7 @@ const portalCopy = {
   'zh-TW': {
     eyebrow: '依目的尋找東京不動產',
     heroTitle: '在東京，找到適合的物件。',
-    heroDescription: '投資用、居住用或土地。自由不動產以日語、英語和中文協助您在東京尋找並購買物件。',
+    heroDescription: '投資用、居住用或土地。Welcome Home Tokyo以日語、英語和中文協助您在東京尋找並購買物件。',
     browse: '尋找物件',
     consult: '諮詢購屋條件',
     searchTitle: '搜尋東京待售物件',
@@ -120,7 +120,7 @@ const portalCopy = {
   'zh-CN': {
     eyebrow: '按目的寻找东京房产',
     heroTitle: '在东京，找到合适的房产。',
-    heroDescription: '投资用、居住用或土地。自由不动产以日语、英语和中文协助您在东京寻找并购买房产。',
+    heroDescription: '投资用、居住用或土地。Welcome Home Tokyo以日语、英语和中文协助您在东京寻找并购买房产。',
     browse: '寻找房产',
     consult: '咨询购房条件',
     searchTitle: '搜索东京待售房产',

diff --git a/src/app/llms-full.txt/route.ts b/src/app/llms-full.txt/route.ts
@@ -27,8 +27,8 @@ async function publishedListings(): Promise<LlmsListing[]> {
 export async function GET() {
   const [listings, articles] = await Promise.all([publishedListings(), getPublicArticles()])
   const markdown = [
-    '# Ziyou Real Estate', '',
-    'Ziyou Real Estate (自由不動産合同会社, Tokyo Governor licence (1) No. 108831; Yanagibashi, Taito-ku, Tokyo; +81-3-5687-7120; admin@ziyou-fudosan.com) helps buyers look for investment property, residential homes, and land in Tokyo\'s 23 wards. The public site supports Japanese, English, Traditional Chinese, and Simplified Chinese.', '',
+    '# Welcome Home Tokyo', '',
+    'Welcome Home Tokyo is a Tokyo property portal for international buyers, operated by Ziyou Real Estate LLC (自由不動産合同会社, Tokyo Governor licence (1) No. 108831; Yanagibashi, Taito-ku, Tokyo; +81-3-5687-7120; admin@ziyou-fudosan.com). It helps buyers look for investment property, residential homes, and land in Tokyo\'s 23 wards. The public site supports Japanese, English, Traditional Chinese, and Simplified Chinese.', '',
     'Every page has a URL per language: English is the plain URL; add ?lang=ja, ?lang=zh-TW or ?lang=zh-CN for Japanese, Traditional Chinese or Simplified Chinese.', '',
     'The portal lists properties for which advertising permission has been confirmed. A search result does not confirm current availability or suitability for an individual buyer. Prices are seller asking prices, not transaction prices.', '',
     'Signed-in buyers can save their purpose, budget, wards, property type, timing and other criteria on the personal search page. Saved criteria are rechecked against published listings, and matches are shown with matched, unmatched and unconfirmed points. The match score compares entered criteria only; it is not a loan, eligibility, yield or availability decision.', '',

diff --git a/src/app/(public)/match/page.tsx b/src/app/(public)/match/page.tsx
@@ -20,5 +20,5 @@ export async function generateMetadata(): Promise<Metadata> {
 export default async function MatchPage({ searchParams }: { searchParams: Promise<{ purpose?: string }> }) {
   const copy = getBuyerJourneyCopy(await getLocale())
   const { purpose } = await searchParams
-  return <main className="min-h-[70vh] bg-white py-16 text-[#1b293a] md:py-20"><div className="container max-w-4xl"><p className="text-xs font-bold uppercase tracking-[0.18em] text-[#57769b]">ZIYOU / PERSONAL SEARCH</p><h1 className="mb-10 mt-6 text-4xl font-medium tracking-tight md:text-5xl"><FunnelText field="matchTitle" baseline={copy.matchTitle} /></h1><BuyerSearch initialPurpose={isMarketCategory(purpose) ? purpose : ''} /><details className="mt-12"><summary className="cursor-pointer text-sm text-[#657487]">{copy.contact}</summary><BuyerBrief initialPurpose={isMarketCategory(purpose) ? purpose : ''} /></details></div></main>
+  return <main className="min-h-[70vh] bg-white py-16 text-[#1b293a] md:py-20"><div className="container max-w-4xl"><p className="text-xs font-bold uppercase tracking-[0.18em] text-[#57769b]">WELCOME HOME TOKYO / PERSONAL SEARCH</p><h1 className="mb-10 mt-6 text-4xl font-medium tracking-tight md:text-5xl"><FunnelText field="matchTitle" baseline={copy.matchTitle} /></h1><BuyerSearch initialPurpose={isMarketCategory(purpose) ? purpose : ''} /><details className="mt-12"><summary className="cursor-pointer text-sm text-[#657487]">{copy.contact}</summary><BuyerBrief initialPurpose={isMarketCategory(purpose) ? purpose : ''} /></details></div></main>
 }

diff --git a/src/app/llms.txt/route.ts b/src/app/llms.txt/route.ts
@@ -15,8 +15,8 @@ export async function GET() {
   } catch { /* Inventory count can be unavailable without affecting the page. */ }
 
   const markdown = [
-    '# Ziyou Real Estate', '',
-    '> Multilingual portal for buying investment property, a home, or land in Tokyo, Japan.', '',
+    '# Welcome Home Tokyo', '',
+    '> Multilingual portal for international buyers of investment property, homes and land in Tokyo, Japan, operated by Ziyou Real Estate LLC (自由不動産合同会社), a licensed Tokyo brokerage.', '',
     count == null ? 'See the live listings page for current properties.' : `Currently published properties: ${count}.`,
     'Only listings with advertising permission are shown. Availability may change; ask the brokerage to confirm.',
     'Pages are available in English (plain URL), Japanese (?lang=ja), Traditional Chinese (?lang=zh-TW) and Simplified Chinese (?lang=zh-CN). The full inventory with prices is in llms-full.txt.', '',

diff --git a/src/app/(public)/listings/[id]/page.tsx b/src/app/(public)/listings/[id]/page.tsx
@@ -40,6 +40,9 @@ import {
   absoluteUrl,
   buildListingDescription,
   buildListingHeading,
+  OPERATOR_NAME,
+  OPERATOR_NAME_JA,
+  SITE_NAME,
   buildListingTitle,
   getOpenGraphLocale,
   getPrimaryListingImage,
@@ -248,7 +251,7 @@ export default async function ListingPage({ params }: ListingPageProps) {
           availability: 'https://schema.org/InStock',
           businessFunction: 'http://purl.org/goodrelations/v1#Sell',
           url: pageUrl,
-          seller: { '@type': 'RealEstateAgent', name: 'Ziyou Real Estate', url: absoluteUrl('/') },
+          seller: { '@type': 'RealEstateAgent', name: OPERATOR_NAME, alternateName: [OPERATOR_NAME_JA, SITE_NAME], url: absoluteUrl('/') },
           itemOffered: {
             '@type': schemaPropertyType(formattedListing.propertyType),
             name: buildListingTitle(formattedListing, locale),
